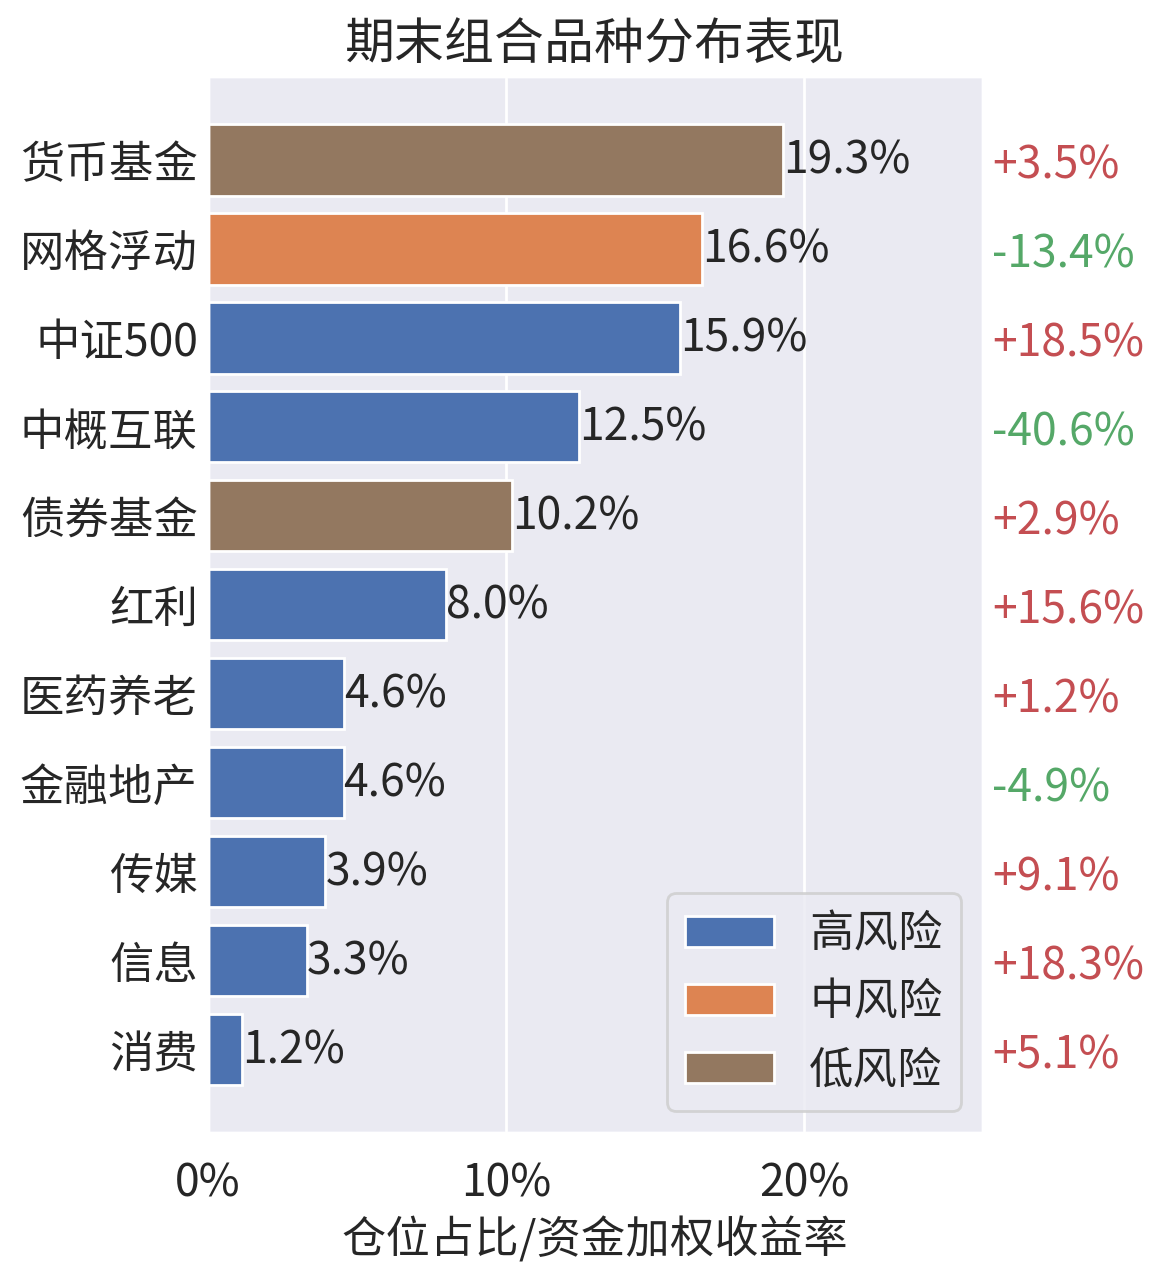
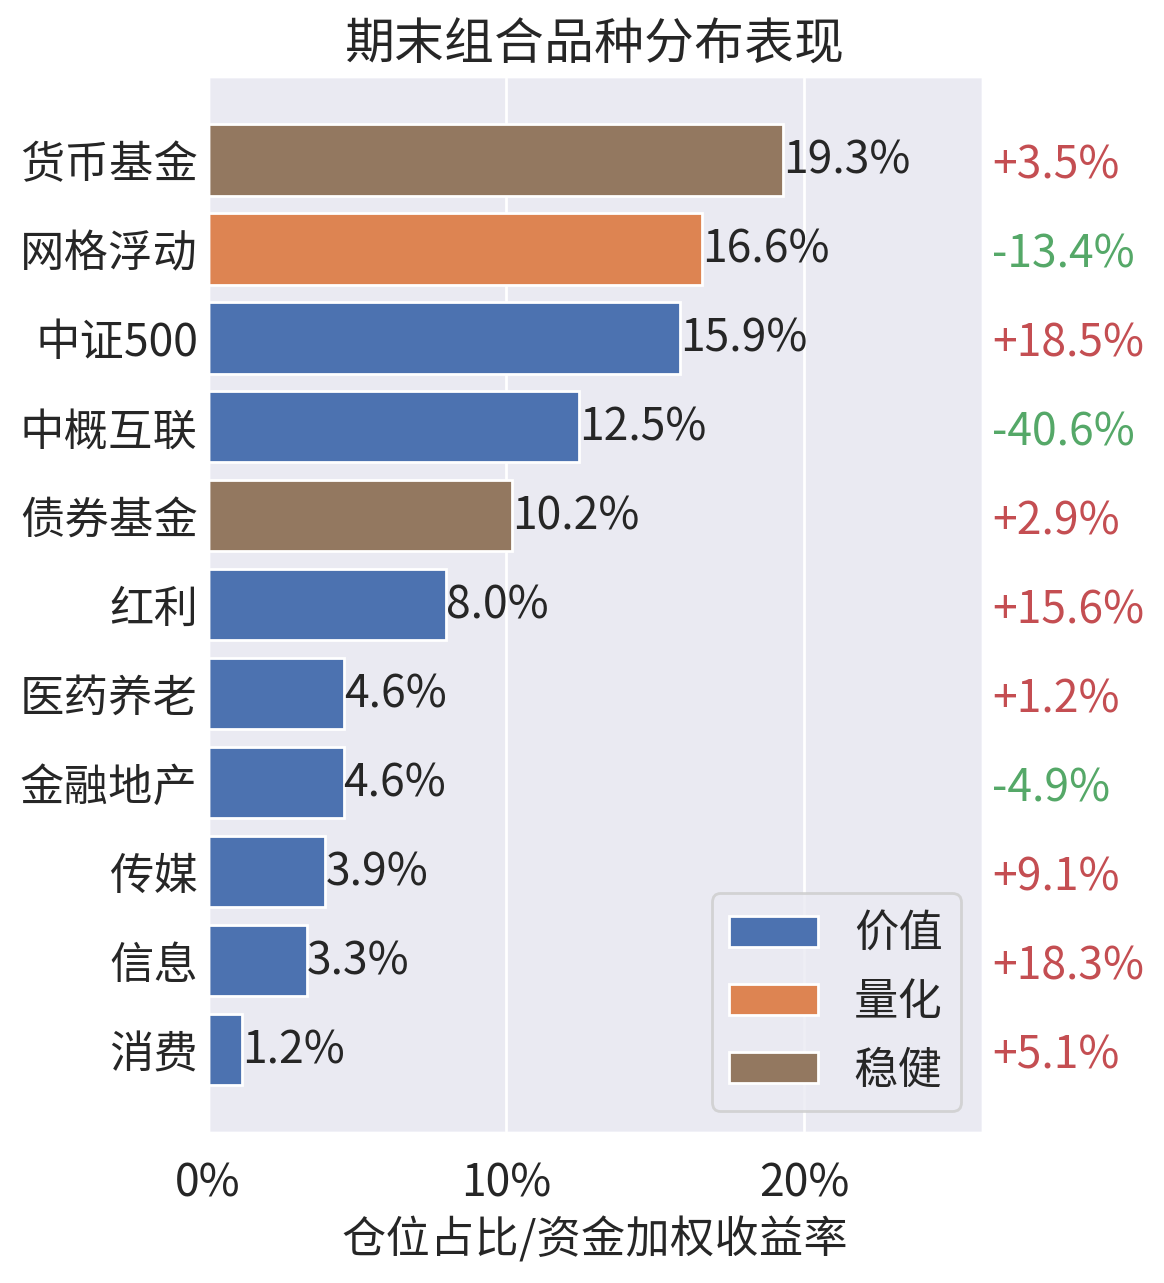
update

Changed region(s): [[0.5876, 0.6859, 0.8041, 0.873]]

diff --git a/_posts/2022-01-02-portfolio-review-2021.md b/_posts/2022-01-02-portfolio-review-2021.md
@@ -40,11 +40,11 @@ categories: Zen
 
 ## 组合
 
-期末组合风险等级分布：
+期末组合策略分布：
 
-- 高风险：53.9%（长期策略+网格留存）
-- 中风险：16.6%（网格浮动）
-- 低风险：29.5%（债券+货币）
+- 价值：53.9%（长期策略+网格留存）
+- 量化：16.6%（网格浮动）
+- 稳健：29.5%（债券+货币）
 
 期末组合品种分布表现：
 
@@ -126,7 +126,7 @@ categories: Zen
 - PE-TTM五年百分位：57.7%
 - 仓位/仓位上限：3.9/7.5%
 
-传媒指数进入历史大底，PE却没有，说明行业本身处于困境，仓位保持谨慎。下半年配合元宇宙概念拉起了一波升势，虽然没有业绩支撑，但品种与大盘关联度较低，从资产配置角度，有较高战略价值。距离清空网格留存仓位还有6%。
+传媒指数进入历史大底，PE却未探底，说明行业本身处于困境，仓位保持谨慎。下半年配合元宇宙概念拉起了一波升势，虽然没有业绩支撑，但品种与大盘关联度较低，从资产配置角度，有较高战略价值。距离最近的止盈线还有6%。
 
 #### 信息
 
@@ -138,7 +138,7 @@ categories: Zen
 - PE-TTM五年百分位：30.76%
 - 仓位/仓位上限：3.3/7.5%
 
-信息和今年的热门题材新能源、芯片相似度高，也顺利跑赢了大盘。当前PE、PB点位正常偏高，距离第一条止盈线10%左右。
+信息和今年的热门题材新能源、芯片相似度高，也顺利跑赢了大盘。当前PE、PB点位正常偏高，距离最近的止盈线10%左右。
 
 #### 中概互联
 
@@ -166,7 +166,9 @@ categories: Zen
 - 恒生：仓位上限10%/PE-TTM五年百分位：34.4%
 - 美股：仓位上限15%/PE-TTM五年百分位：72.7%
 
-恒生距离建仓还有8%左右，考虑到和中概互联相似度较高，建仓不宜过重。沪深300和标普距离建仓还有较远距离，沪深300“高吸低抛”的逻辑在当前轮动行情下不是特别理想；标普则重点关注政策风险。
+恒生距离建仓还有8%左右，考虑到和中概互联相似度较高，建仓不宜过重。
+
+沪深300和标普距离建仓还有较远距离，沪深300“高吸低抛”的逻辑在当前轮动行情下不是特别理想；标普则重点关注政策风险。
 
 ## 总结与展望
 
